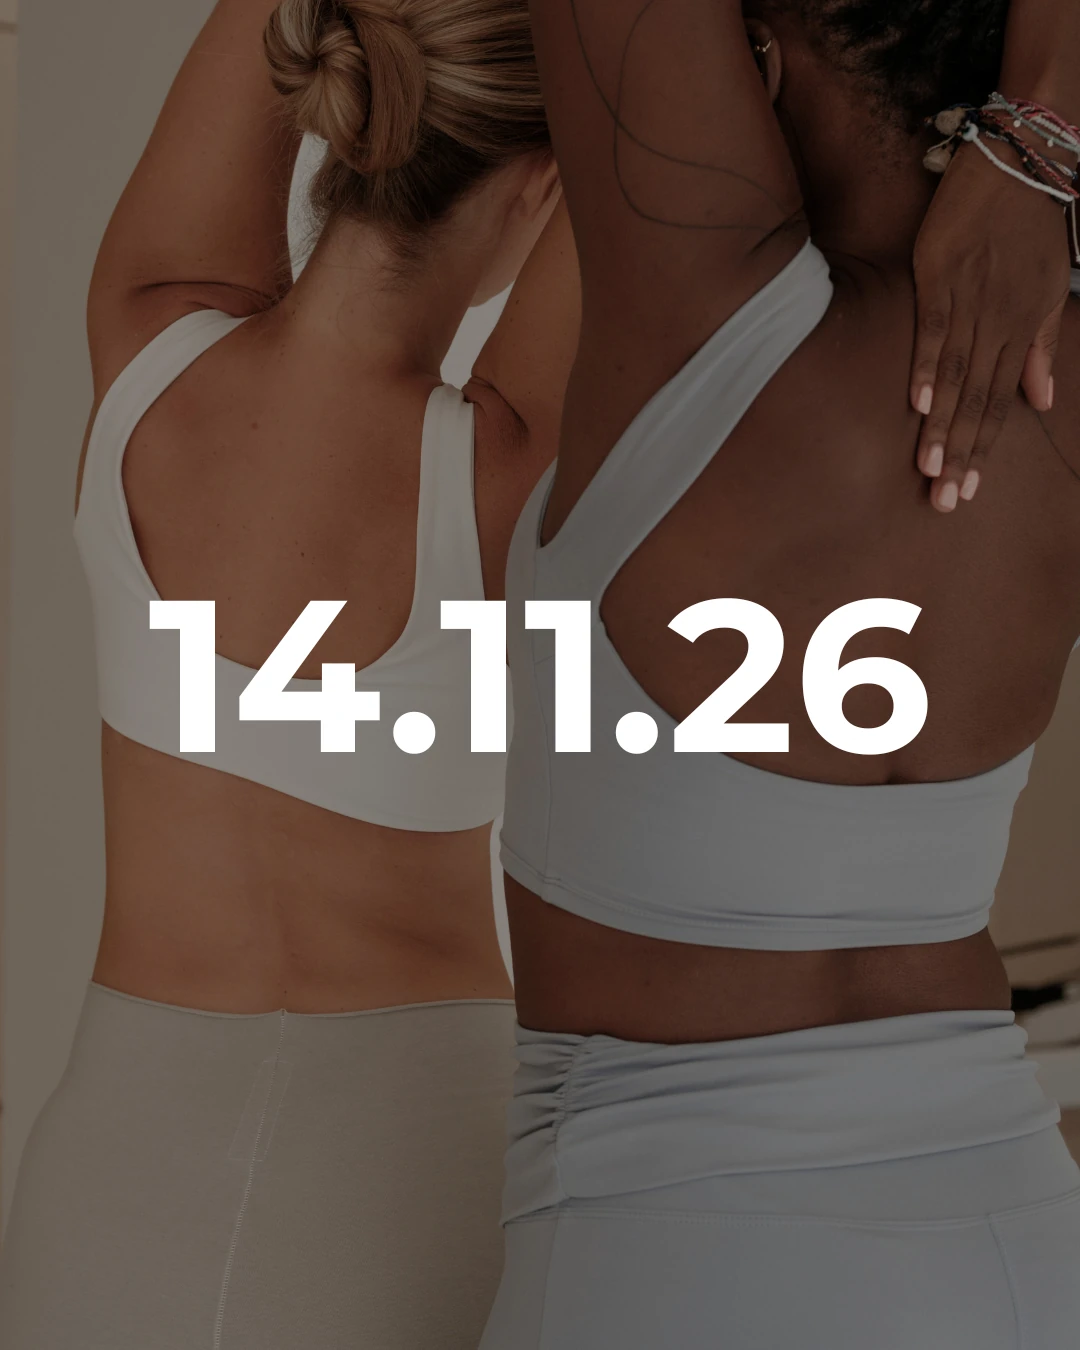
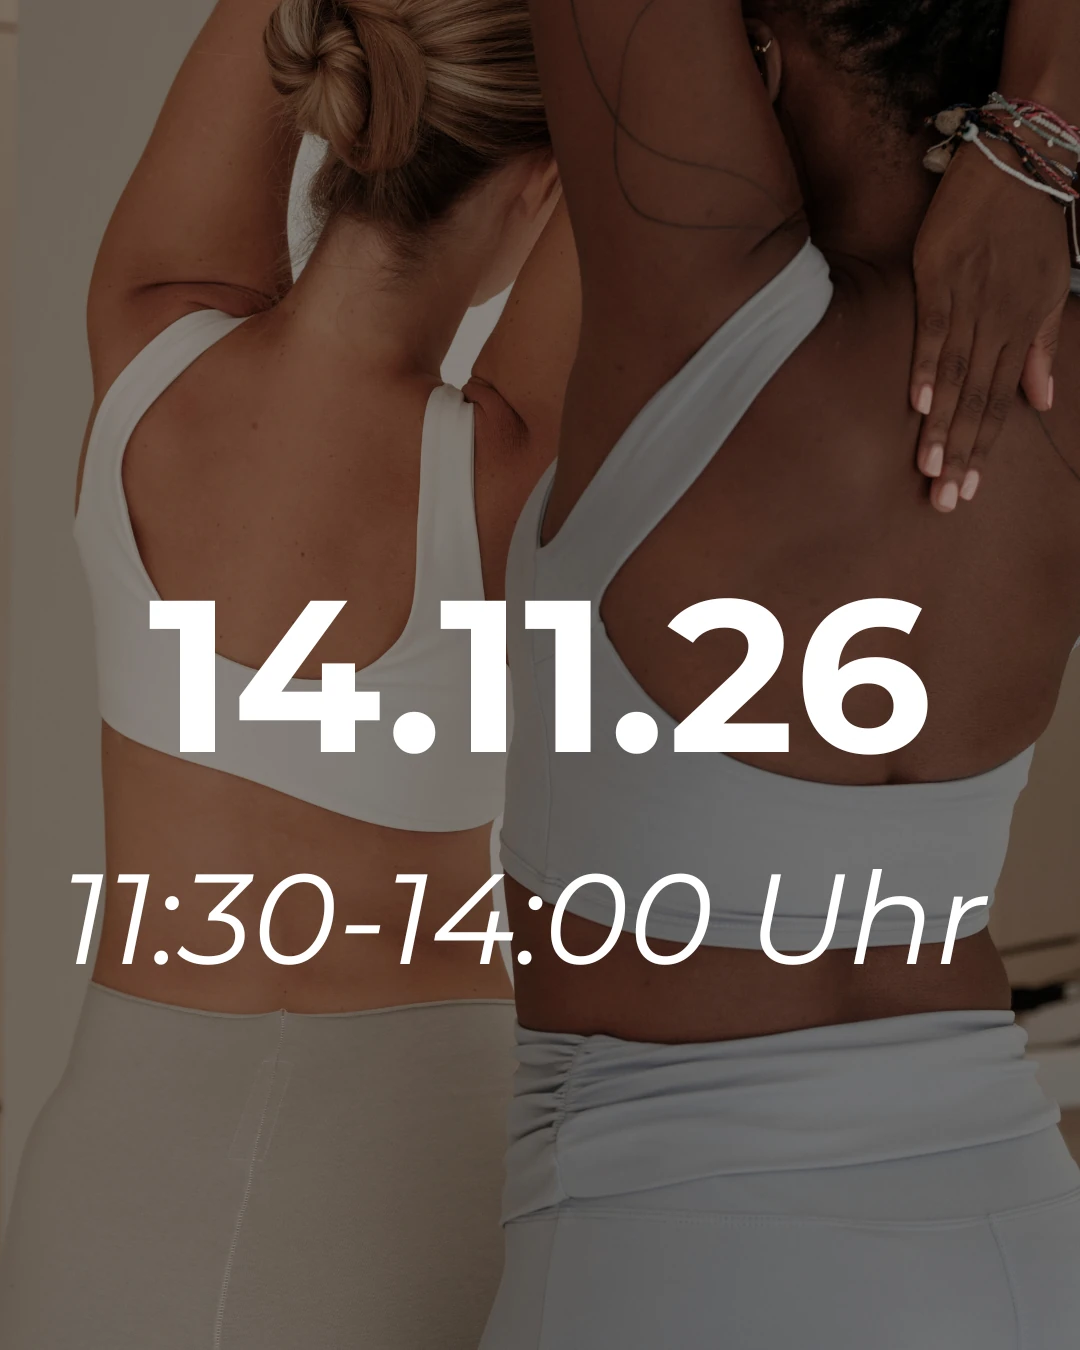
Updated workshop images to have time. Workshop modal edited

Changed region(s): [[0.0611, 0.6222, 0.6722, 0.7156], [0.7028, 0.6533, 0.9167, 0.7156], [0.6111, 0.6222, 0.6417, 0.6533]]

diff --git a/src/pages/WorkshopPage.jsx b/src/pages/WorkshopPage.jsx
@@ -318,7 +318,7 @@ Julia<br>
 
       onSuccess();
     } catch (err) {
-      setError('Failed to send registration. Please try again.');
+      setError('Anmeldung Fehlgeschlagen. Bitte versuche es erneut.');
     } finally {
       setLoading(false);
     }
@@ -326,10 +326,10 @@ Julia<br>
 
   return (
     <form onSubmit={handleSubmit} style={{ maxWidth: '400px', margin: '0 auto' }}>
-      <h3>Book "{workshopName}"</h3>
-      <p>Price: €{amount}</p>
+      <h3>Anmeldung für <br/>"{workshopName}"</h3>
+      <p>Preis: €{amount}</p>
 
-      <FormLabel>First Name</FormLabel>
+      <FormLabel>Vorname</FormLabel>
       <FormInput
         type="text"
         name="firstName"
@@ -339,7 +339,7 @@ Julia<br>
         required
       />
 
-      <FormLabel>Last Name</FormLabel>
+      <FormLabel>Nachname</FormLabel>
       <FormInput
         type="text"
         name="lastName"
@@ -359,7 +359,7 @@ Julia<br>
         required
       />
 
-      <FormLabel>Phone (optional)</FormLabel>
+      <FormLabel>Telefonnr. (optional)</FormLabel>
       <FormInput
         type="tel"
         name="tel"
@@ -373,7 +373,7 @@ Julia<br>
           Cancel
         </RegisterButton>
         <RegisterButton type="submit" disabled={loading} style={{ padding: '8px 16px' }}>
-          {loading ? 'Processing...' : 'Register'}
+          {loading ? 'Processing...' : 'Anmelden'}
         </RegisterButton>
       </div>
       {error && <p style={{ color: 'red' }}>{error}</p>}
@@ -429,12 +429,12 @@ const WorkshopPage = () => {
   // const [intentLoading, setIntentLoading] = useState(false); // For stripe
 
   const workshops = [
-    { id: 1, title: 'Workshop 1: The Foundation', subtitle: 'Ideal für Einsteiger', date: '08.08.2026', price: 65, description: 'In dem ersten Part der <i>Elevate Series</i> lernst du die essenziellen Grundlagen des Pilates kennen und entwickelst ein solides Fundament für deine weitere Praxis – in deiner nächsten Class oder zu Hause. Gemeinsam legen wir die Basis – von der Atmung über die Aktivierung deines Powerhouses bis hin zu den Foundations der Contrology.', image: workshop1Img },
-    { id: 2, title: 'Workshop 2: Stability & Balance', subtitle: 'Für alle Levels', date: '29.08.2026', price: 65, description: 'Gemeinsam erarbeiten wir mit ausgewählten Übungen deine Stabilität und Balance auf der Matte. Finde Kraft aus deiner tiefen Mitte und lerne, wie du sie gemeinsam mit deiner Atmung für eine kontrollierte Ausführung der Übungen nutzen kannst.', image: workshop2Img },
-    { id: 3, title: 'Workshop 3: Core & Pelvic Floor', subtitle: 'Für alle Levels', date: '19.09.2026', price: 65, description: 'Unser Powerhouse und Beckenboden arbeiten enger zusammen, als dir vielleicht bewusst ist. Im Einklang mit unserer Atmung können wir unseren Beckenboden stabilisieren, mobilisieren und stärken – für kontrolliertere Bewegung und einen nachhaltig gesunden Körper.', image: workshop3Img },
-    { id: 4, title: 'Workshop 4: Mobility & Flexibility', subtitle: 'Für alle Levels', date: '17.10.2026', price: 65, description: 'In diesem Part entwickeln wir ein noch feineres Körpergefühl und arbeiten gezielt an der Mobilität deiner Gelenke sowie deiner Flexibilität. Erlerne, wie du deine Hüfte, Beine oder Wirbelsäule gezielt mobilisieren und deine Flexibilität erweitern kannst – unabhängig davon, ob du noch ganz am Anfang stehst oder deine bisherigen Fähigkeiten ausbauen möchtest.', image: workshop4Img },
-    { id: 5, title: 'Workshop 5: Alignment & Refinement', subtitle: 'Für alle Levels', date: '14.11.2026', price: 65, description: 'Ganz nach dem Prinzip: Qualität vor Quantität. Anhand ausgewählter Übungen entwickelst du eine noch präzisere Mind-Muscle-Connection sowie ein feineres Körpergefühl und mehr Kontrolle über deine Bewegungen.', image: workshop5Img },
-    { id: 6, title: 'Workshop 6: Advancing on the Mat', subtitle: 'Ideal für Erfahrene & Fortgeschrittene', date: '05.12.2026', price: 65, description: 'Im letzten Part der <i>Elevate Series</i> ist deine Gelegenheit, deine Skills auf der Matte auf das nächste Level zu bringen. Eventuell hast du dich bisher nicht getraut oder wusstest nicht genau, wie du sicher und kontrolliert den Schwierigkeitsgrad einer Übung erhöhst. Mit meiner Unterstützung gewinnst du das nötige Vertrauen und die Technik, um anspruchsvollere Übungen sicher und kontrolliert auszuführen.', image: workshop6Img },
+    { id: 1, title: 'Workshop 1: The Foundation', subtitle: 'Ideal für Einsteiger', date: '08.08.2026 11:30', price: 65, description: 'In dem ersten Part der <i>Elevate Series</i> lernst du die essenziellen Grundlagen des Pilates kennen und entwickelst ein solides Fundament für deine weitere Praxis – in deiner nächsten Class oder zu Hause. Gemeinsam legen wir die Basis – von der Atmung über die Aktivierung deines Powerhouses bis hin zu den Foundations der Contrology.', image: workshop1Img },
+    { id: 2, title: 'Workshop 2: Stability & Balance', subtitle: 'Für alle Levels', date: '29.08.2026 11:30', price: 65, description: 'Gemeinsam erarbeiten wir mit ausgewählten Übungen deine Stabilität und Balance auf der Matte. Finde Kraft aus deiner tiefen Mitte und lerne, wie du sie gemeinsam mit deiner Atmung für eine kontrollierte Ausführung der Übungen nutzen kannst.', image: workshop2Img },
+    { id: 3, title: 'Workshop 3: Core & Pelvic Floor', subtitle: 'Für alle Levels', date: '19.09.2026 11:30', price: 65, description: 'Unser Powerhouse und Beckenboden arbeiten enger zusammen, als dir vielleicht bewusst ist. Im Einklang mit unserer Atmung können wir unseren Beckenboden stabilisieren, mobilisieren und stärken – für kontrolliertere Bewegung und einen nachhaltig gesunden Körper.', image: workshop3Img },
+    { id: 4, title: 'Workshop 4: Mobility & Flexibility', subtitle: 'Für alle Levels', date: '17.10.2026 11:30', price: 65, description: 'In diesem Part entwickeln wir ein noch feineres Körpergefühl und arbeiten gezielt an der Mobilität deiner Gelenke sowie deiner Flexibilität. Erlerne, wie du deine Hüfte, Beine oder Wirbelsäule gezielt mobilisieren und deine Flexibilität erweitern kannst – unabhängig davon, ob du noch ganz am Anfang stehst oder deine bisherigen Fähigkeiten ausbauen möchtest.', image: workshop4Img },
+    { id: 5, title: 'Workshop 5: Alignment & Refinement', subtitle: 'Für alle Levels', date: '14.11.2026 11:30', price: 65, description: 'Ganz nach dem Prinzip: Qualität vor Quantität. Anhand ausgewählter Übungen entwickelst du eine noch präzisere Mind-Muscle-Connection sowie ein feineres Körpergefühl und mehr Kontrolle über deine Bewegungen.', image: workshop5Img },
+    { id: 6, title: 'Workshop 6: Advancing on the Mat', subtitle: 'Ideal für Erfahrene & Fortgeschrittene', date: '05.12.2026 11:30', price: 65, description: 'Im letzten Part der <i>Elevate Series</i> ist deine Gelegenheit, deine Skills auf der Matte auf das nächste Level zu bringen. Eventuell hast du dich bisher nicht getraut oder wusstest nicht genau, wie du sicher und kontrolliert den Schwierigkeitsgrad einer Übung erhöhst. Mit meiner Unterstützung gewinnst du das nötige Vertrauen und die Technik, um anspruchsvollere Übungen sicher und kontrolliert auszuführen.', image: workshop6Img },
   ];
 
   const handleRegister = async (workshop) => {
@@ -473,7 +473,7 @@ const WorkshopPage = () => {
   };
 
   const handleBookingSuccess = () => {
-    alert('Booking successful! Thank you for registering.');
+    alert('Anfrage erfolgreich abgesendet!');
     handleCloseModal();
   };
 
